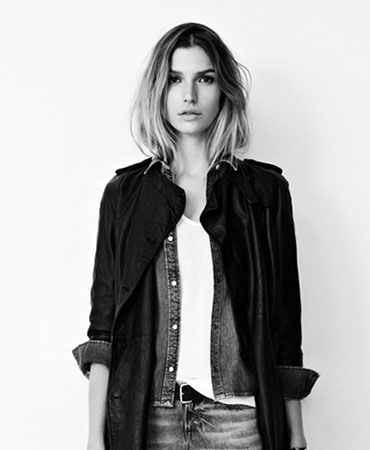
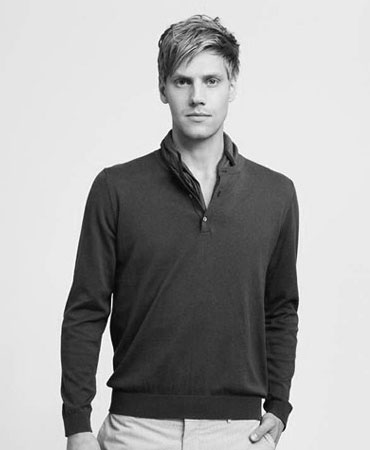
style of section about-studio

diff --git a/index.html b/index.html
@@ -48,9 +48,9 @@
           <div class="row">
             <div class="col col-4">
               <blockquote>
-                <p>Design is not making beauty, beauty emerges from selection, affinities, integration, love.
+                <p class="blockquote-text">Design is not making beauty, beauty emerges from selection, affinities, integration, love.
                 </p>
-                <span>— Louis Kahn</span>
+                <span class="blockquote-author">— Louis Kahn</span>
               </blockquote>
             </div>
             <!-- /.col col-4 -->
@@ -83,12 +83,12 @@
             <div class="col col-4">
               <div class="team-item">
                 <div class="team-item-photo">
-                  <img src="img/team-img-1.jpg" alt="">
+                  <img src="img/team-img-2.jpg" alt="">
                 </div>
                 <!-- /.team-item-photo -->
                 <div class="team-item-info text-center">
-                  <span class="team-item-name">Thomas Rythm</span>
-                  <span class="team-item-role">Art Director</span>
+                  <span class="team-item-name">Marta Laning</span>
+                  <span class="team-item-role">Web engineer</span>
                 </div>
                 <!-- /.team-item-info -->
               </div>
@@ -98,12 +98,12 @@
             <div class="col col-4">
               <div class="team-item">
                 <div class="team-item-photo">
-                  <img src="img/team-img-1.jpg" alt="">
+                  <img src="img/team-img-3.jpg" alt="">
                 </div>
                 <!-- /.team-item-photo -->
                 <div class="team-item-info text-center">
-                  <span class="team-item-name">Thomas Rythm</span>
-                  <span class="team-item-role">Art Director</span>
+                  <span class="team-item-name">Steve ANDERS</span>
+                  <span class="team-item-role">Developer</span>
                 </div>
                 <!-- /.team-item-info -->
               </div>

diff --git a/css/style.css b/css/style.css
@@ -150,6 +150,7 @@ button {
 }
 
 .title {
+	font-family: 'dosisregular', sans-serif;
 	font-size: 1.2rem;
 	text-transform: uppercase;
 	color: #111;
@@ -235,8 +236,37 @@ button {
 .about-studio .row + .row {
 	margin-top: 100px;
 }
-.team-item-info span{
+.blockquote-text {
+	font-size: 1.6rem;
+	line-height: 2.53rem;
+	margin-bottom: 10px;
+}
+.blockquote-author {
+	font-family:'open_sansregular', sans-serif;
+	font-size: .73rem;
+	line-height: 2.53rem;
+	letter-spacing: .2em;
+	text-transform: uppercase;
+}
+.default-text {
+	font-size: 1rem;
+	line-height: 1.73rem;
+}
+.team-item-info span {
 	display: block;
+}
+.team-item-name,
+.team-item-role {
+	font-family:  'dosisregular', sans-serif;
+	text-transform: uppercase;
+	letter-spacing: .4em;
+} 
+.team-item-name {
+	font-size: 1rem;
+	margin: 25px 0 10px;
+}
+.team-item-role {
+	font-size: .8rem;
 }
 /* ===== About studio end ===== */
 /* ===== Lets talk start ===== */
